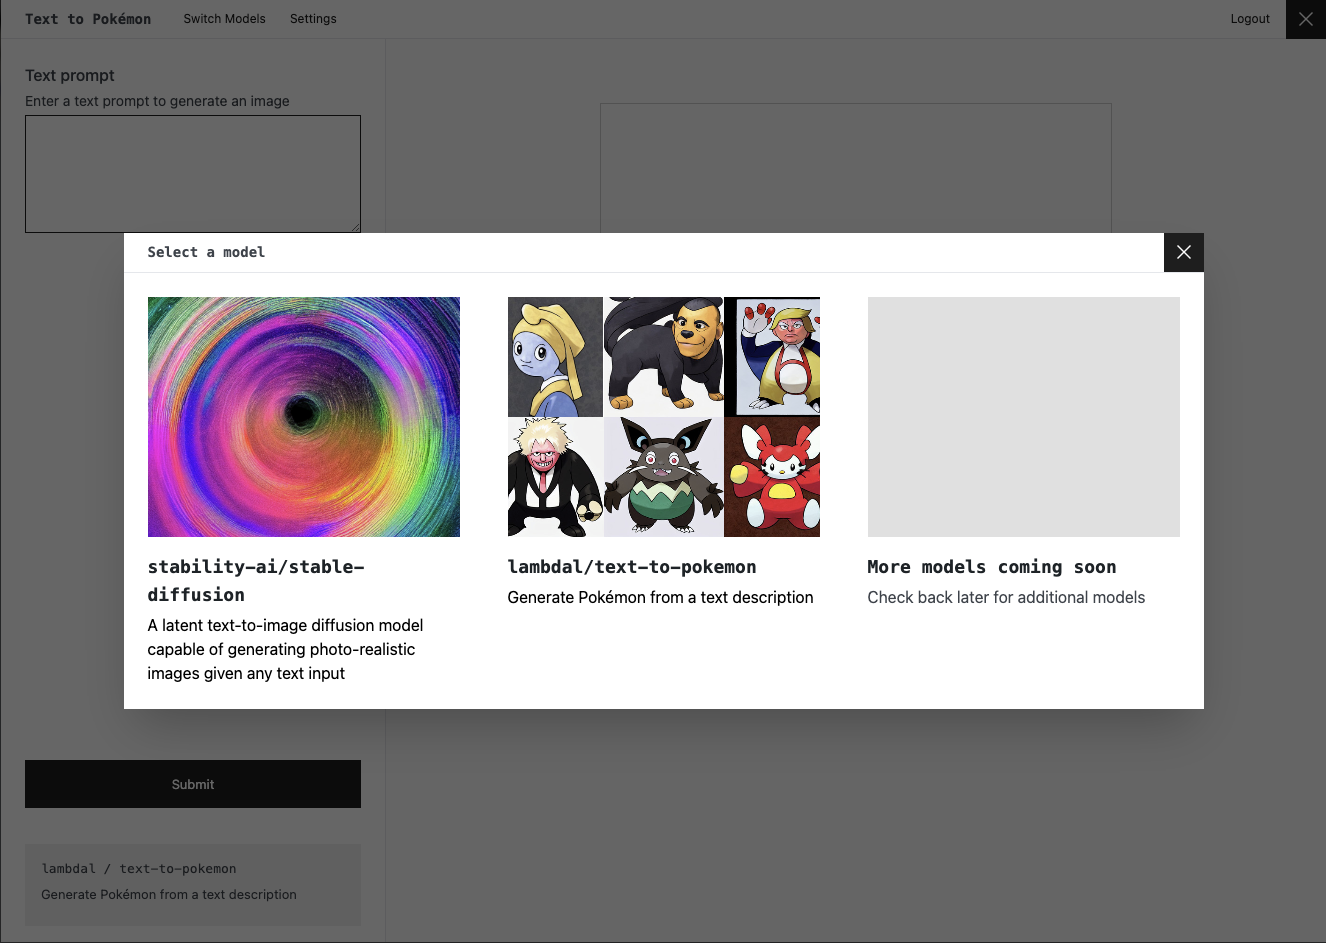
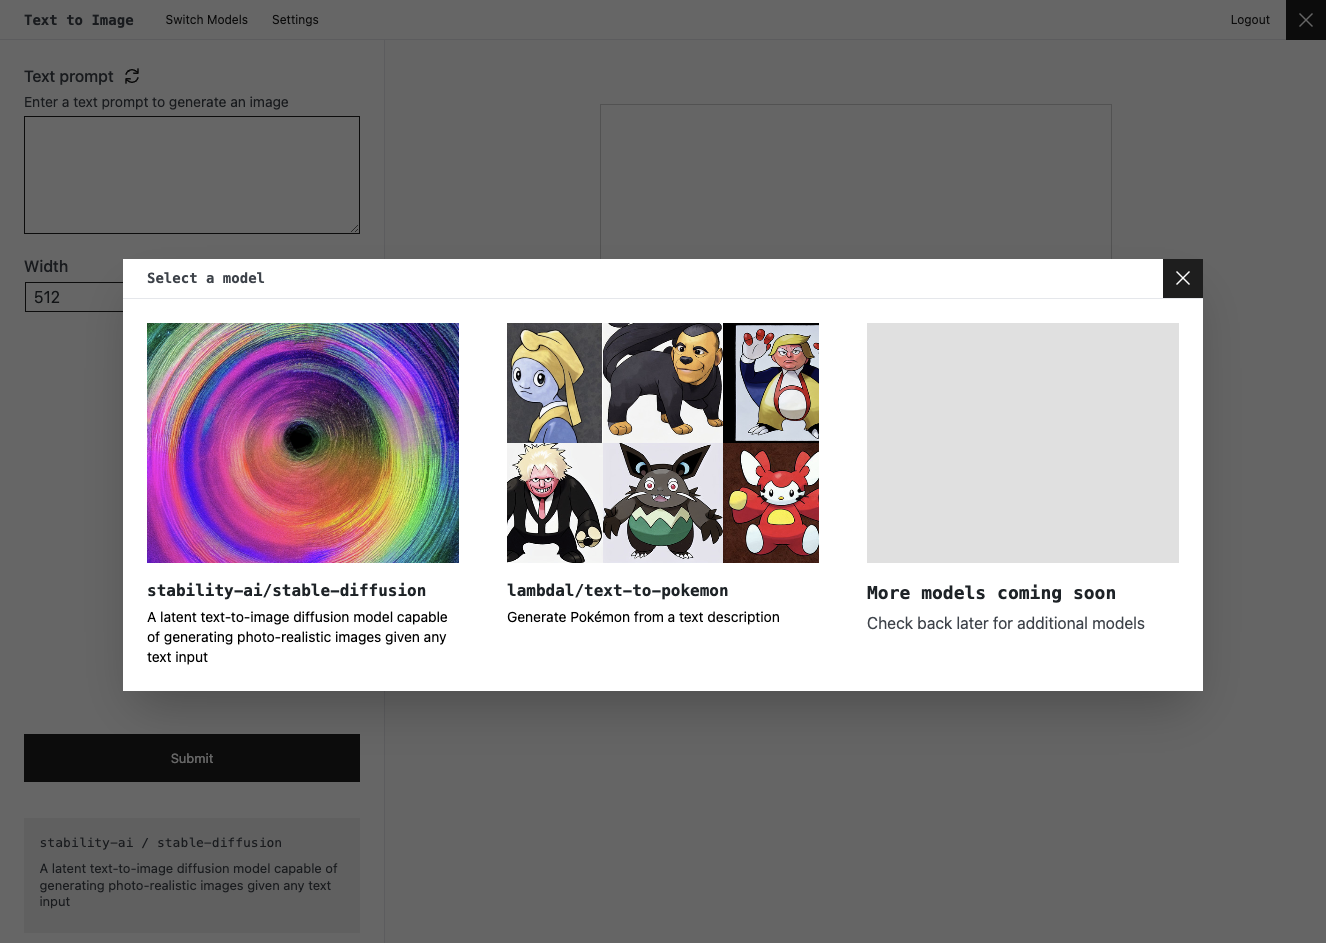
Update screenshot

diff --git a/src/components/ModelSwitch.tsx b/src/components/ModelSwitch.tsx
@@ -30,10 +30,10 @@ export const ModelSwitch = () => {
                             }}
                         />
                         <div>
-                            <h2 className="font-mono text-lg m-0 mb-1 text-left">
+                            <h2 className="font-mono text-base m-0 mb-1 text-left">
                                 {model.id}
                             </h2>
-                            <p className="m-0 text-left text-base">
+                            <p className="m-0 text-left text-sm">
                                 {model.description}
                             </p>
                         </div>
